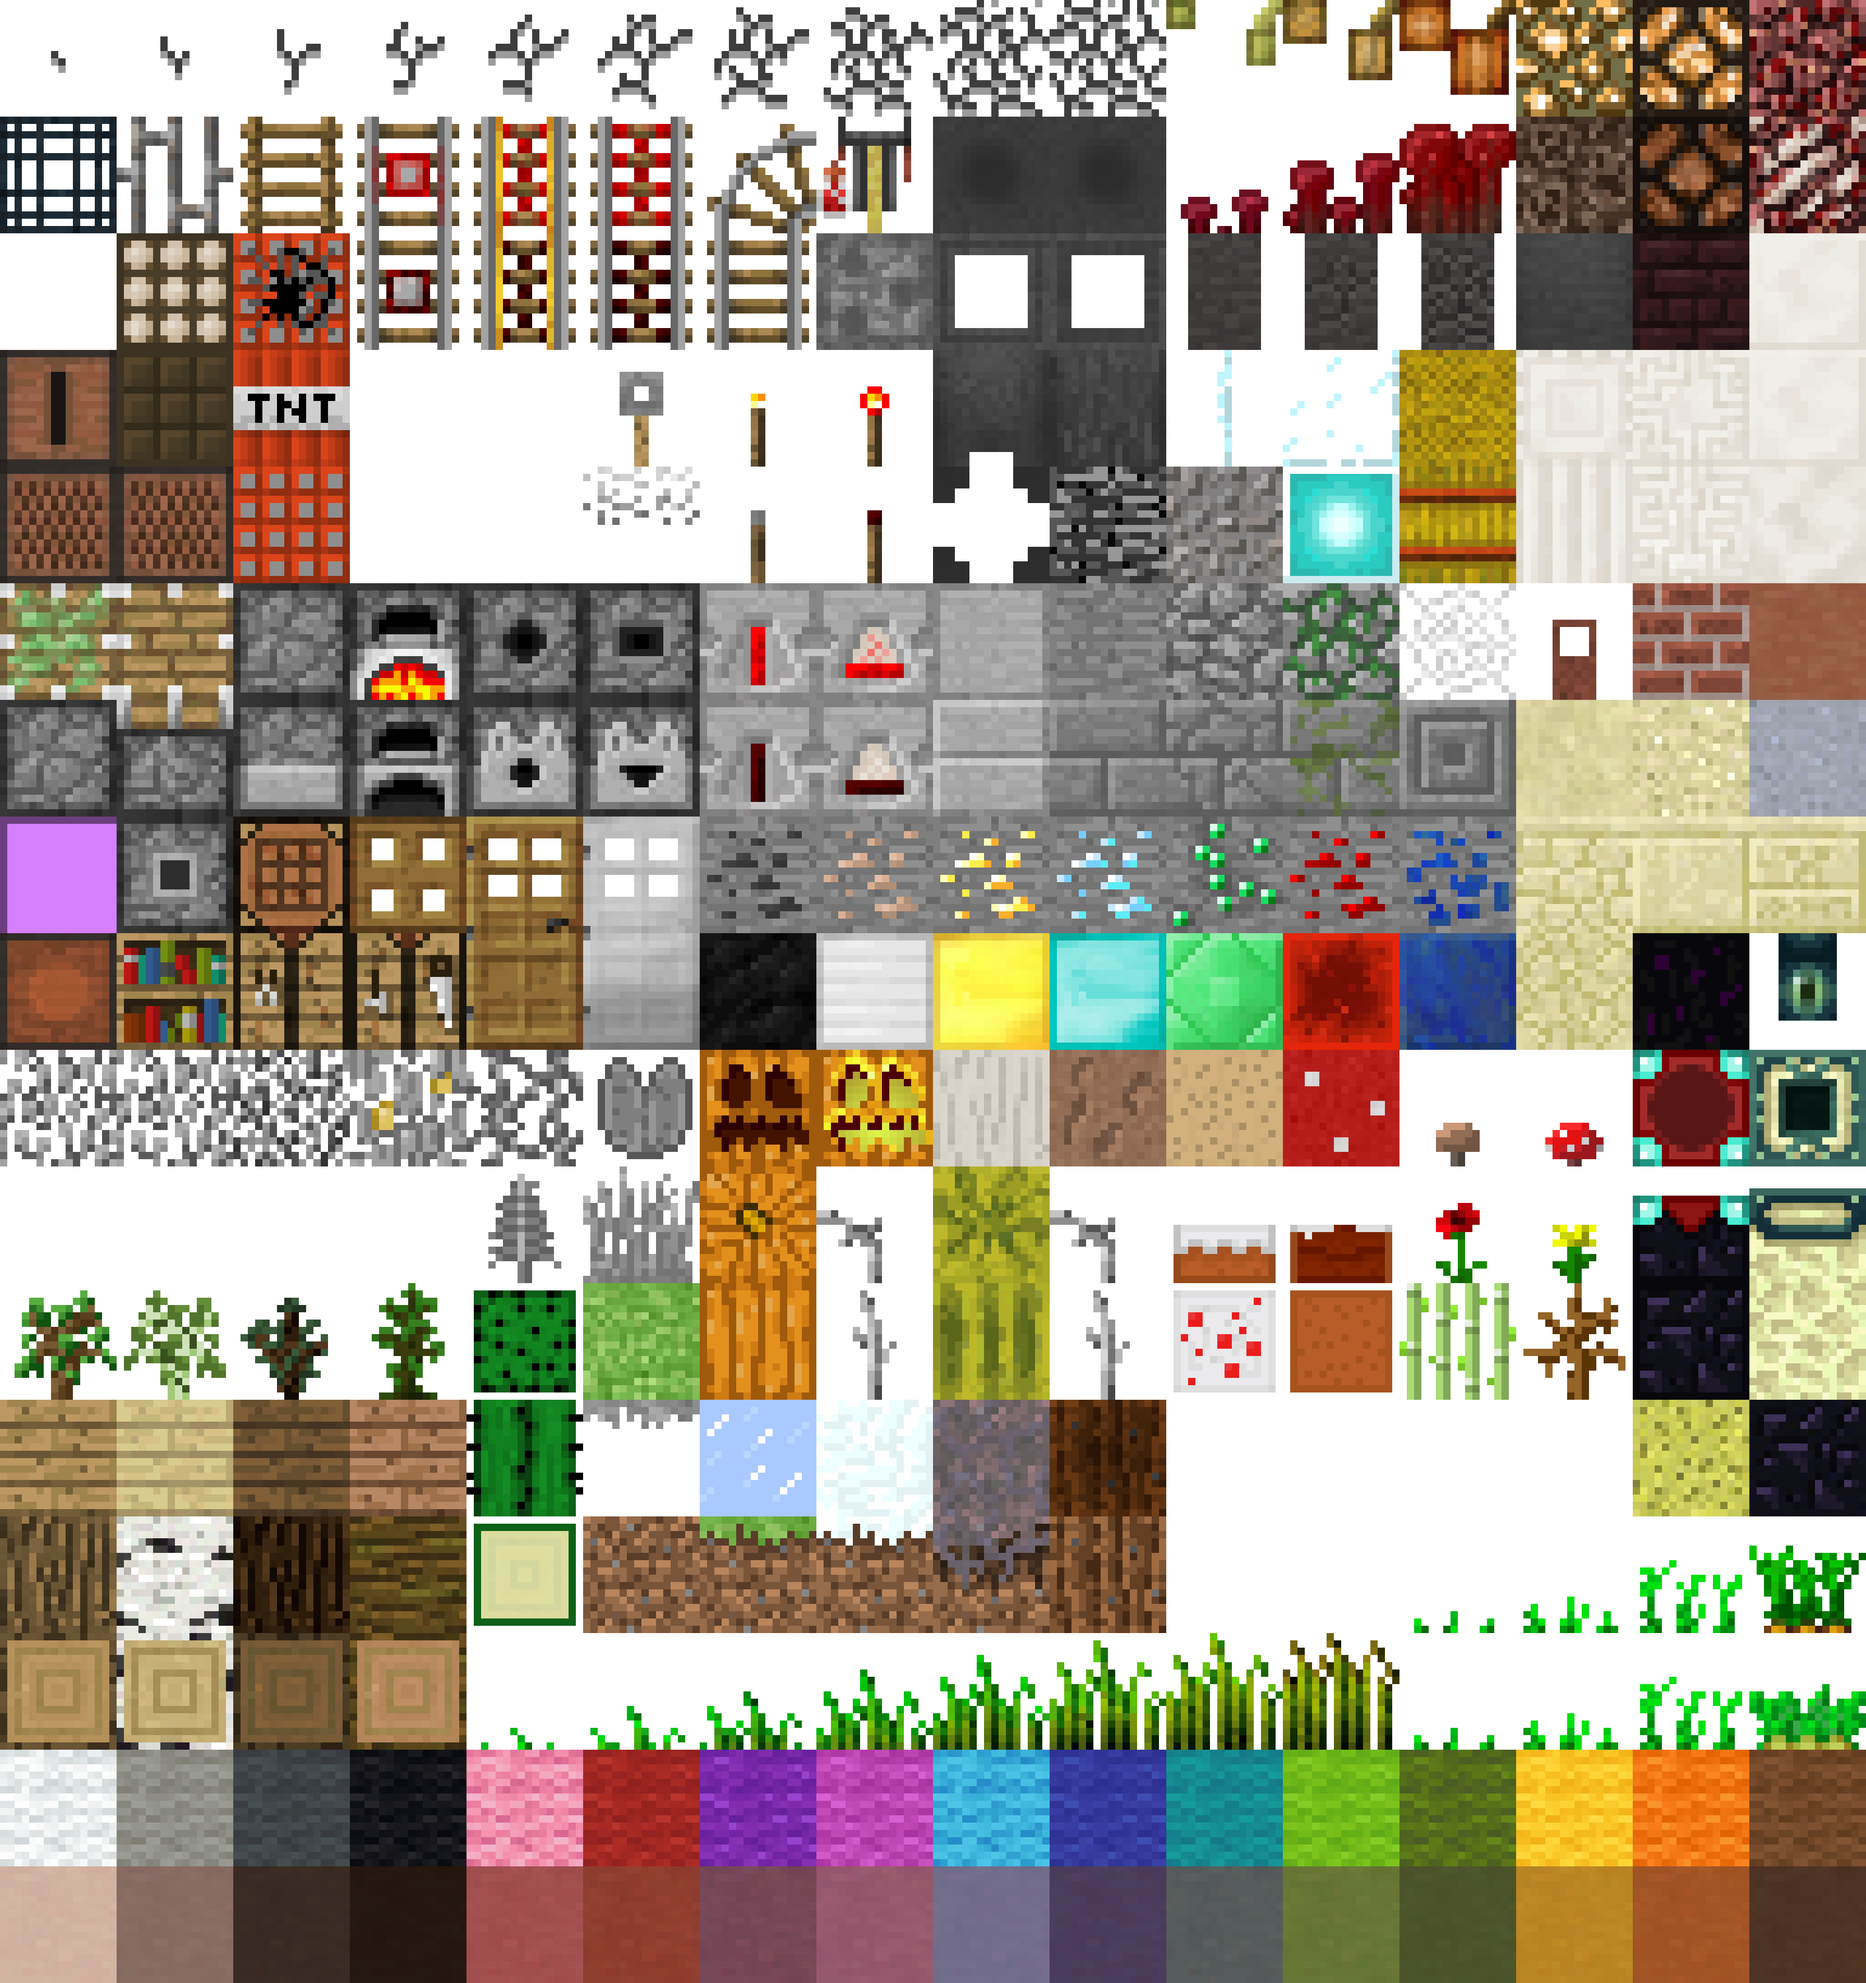
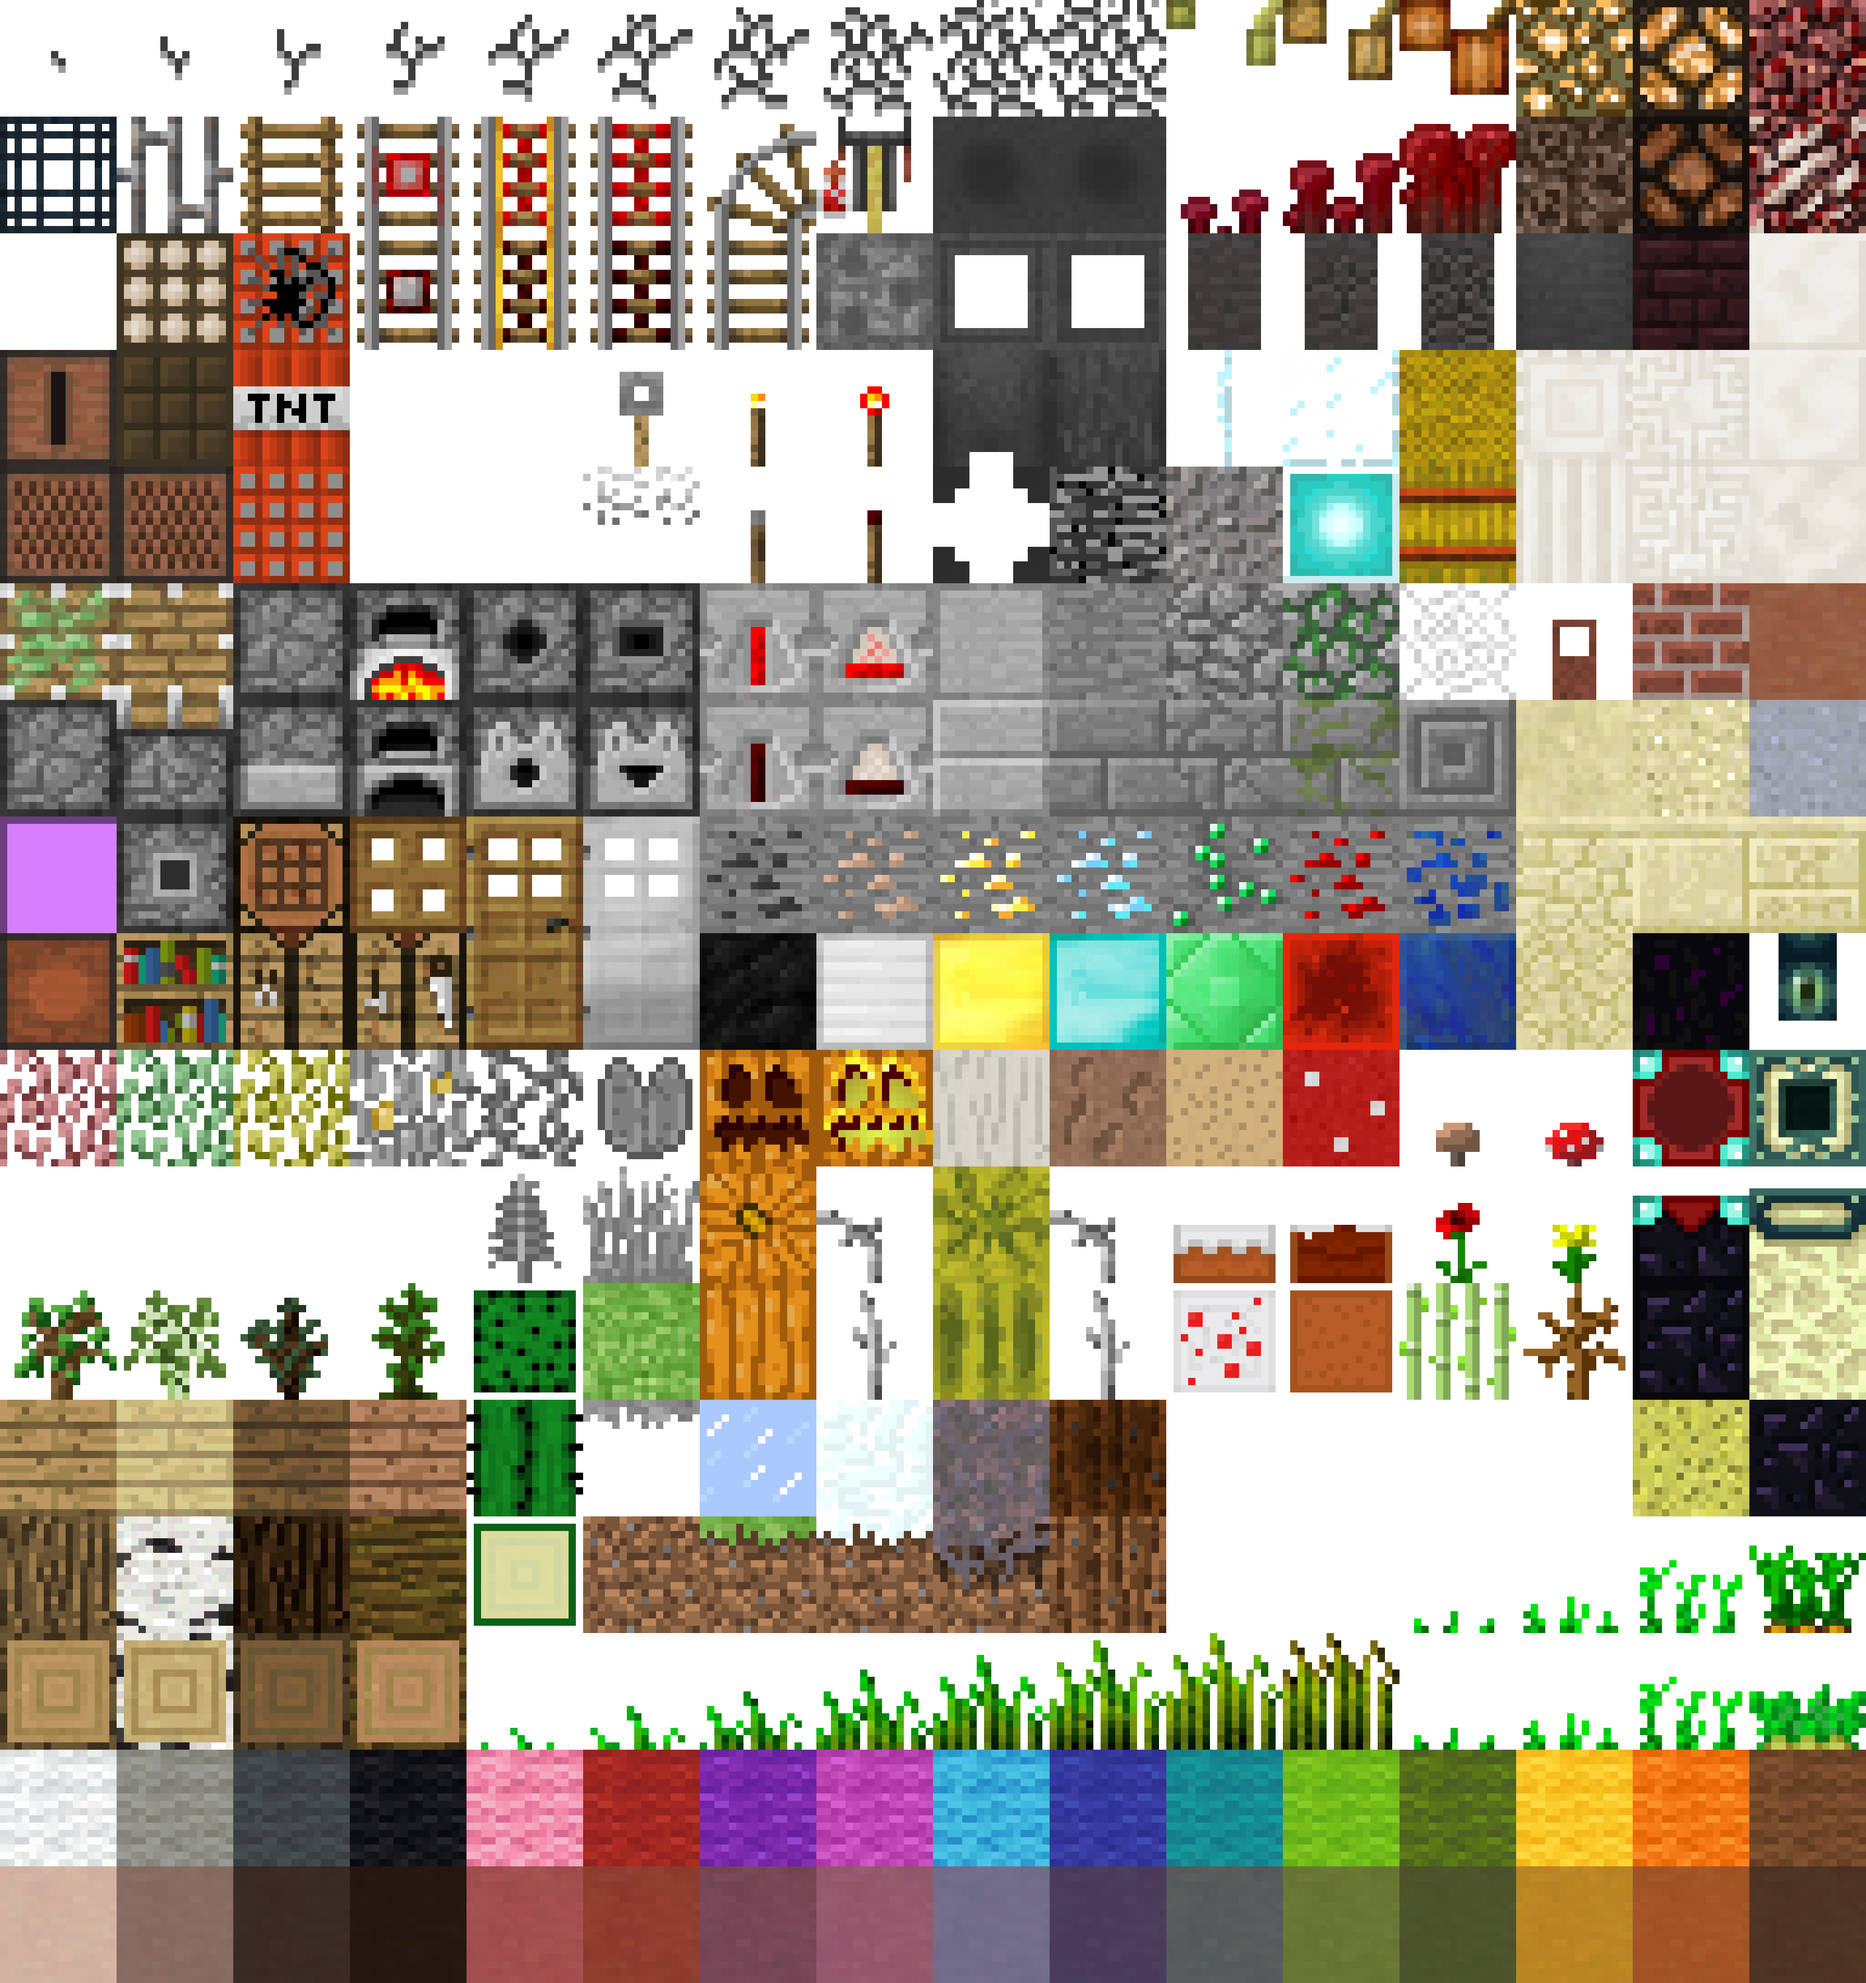
Improve procedural generation and picking when the is picking a cube coplanar to an other chunk, this other chunk is reloaded to change the empty face of the other chunk in visible face This commit also change the way where chunks are generated depending of the player position, chunks who are waitin

Changed region(s): [[0.0, 0.5312, 0.1875, 0.5938]]

diff --git a/VoxEngine/VoxEngine/src/engine/World.cpp b/VoxEngine/VoxEngine/src/engine/World.cpp
@@ -110,6 +110,43 @@ std::pair<int, bool>& World::getChunkInfos(glm::vec3 pos)
 	return (_chunks[(int)(pos.x / CHUNK_X)][(int)(pos.y / CHUNK_Y)][(int)(pos.z / CHUNK_Z)].chunkInfos[(int)pos.x % CHUNK_X][(int)pos.y % CHUNK_Y][(int)pos.z % CHUNK_Z]);
 }
 
+void	World::updateChunk(glm::vec3 pos, bool recursive)
+{
+	if (((int)((pos.y / CHUNK_Y) - _deltaChunk.y) < 0) || ((int)((pos.y / CHUNK_Y) - _deltaChunk.y) >= CHUNK_SIZE_Y))
+		return;
+
+	_chunks[(int)(pos.x / CHUNK_X)][(int)(pos.y / CHUNK_Y)][(int)(pos.z / CHUNK_Z)].Chunk
+		= g_cubeFactory->getChunk(
+			glm::vec3(
+			(int)((pos.x / CHUNK_X) + _deltaChunk.x) * CHUNK_X,
+				(int)((pos.y / CHUNK_Y) + _deltaChunk.y) * CHUNK_Y,
+				(int)((pos.z / CHUNK_Z) + _deltaChunk.z) * CHUNK_Z),
+			_chunks[(int)(pos.x / CHUNK_X)][(int)(pos.y / CHUNK_Y)][(int)(pos.z / CHUNK_Z)].chunkInfos,
+			_chunks[(int)(pos.x / CHUNK_X)][(int)(pos.y / CHUNK_Y)][(int)(pos.z / CHUNK_Z)].Chunk._model._rawModel._vao_id, true);
+
+	if (recursive == false)
+		return;
+
+	//LEFT
+	if ((int)(pos.x / CHUNK_X) != (int)((pos.x - 1) / CHUNK_X))
+		this->updateChunk(glm::vec3(pos.x - 1, pos.y, pos.z), false);
+	//RIGHT
+	if ((int)(pos.x / CHUNK_X) != (int)((pos.x + 1) / CHUNK_X))
+		this->updateChunk(glm::vec3(pos.x + 1, pos.y, pos.z), false);
+	//BACK
+	if ((int)(pos.z / CHUNK_Z) != (int)((pos.z + 1) / CHUNK_Z))
+		this->updateChunk(glm::vec3(pos.x, pos.y, pos.z + 1), false);
+	//FRONT
+	if ((int)(pos.z / CHUNK_Z) != (int)((pos.z - 1) / CHUNK_Z))
+		this->updateChunk(glm::vec3(pos.x, pos.y, pos.z - 1), false);
+	//TOP
+	if ((int)(pos.y / CHUNK_Y) != (int)((pos.y + 1) / CHUNK_Y))
+		this->updateChunk(glm::vec3(pos.x, pos.y + 1, pos.z), false);
+	//BOT
+	if ((int)(pos.y / CHUNK_Y) != (int)((pos.y - 1) / CHUNK_Y))
+		this->updateChunk(glm::vec3(pos.x, pos.y - 1, pos.z), false);
+}
+
 void	World::updateBlock(glm::vec3 pos, int type, bool draw)
 {
 	if (pos == glm::vec3(0, 0, 0))
@@ -137,15 +174,7 @@ void	World::updateBlock(glm::vec3 pos, int type, bool draw)
 
 		pos += _deltaPlayer;
 
-		_chunks[(int)(pos.x / CHUNK_X)][(int)(pos.y / CHUNK_Y)][(int)(pos.z / CHUNK_Z)].Chunk
-			= g_cubeFactory->getChunk(
-				glm::vec3(
-				(int)((pos.x / CHUNK_X) + _deltaChunk.x) * CHUNK_X,
-				(int)((pos.y / CHUNK_Y) + _deltaChunk.y) * CHUNK_Y,
-				(int)((pos.z / CHUNK_Z) + _deltaChunk.z) * CHUNK_Z),
-				_chunks[(int)(pos.x / CHUNK_X)][(int)(pos.y / CHUNK_Y)][(int)(pos.z / CHUNK_Z)].chunkInfos,
-				_chunks[(int)(pos.x / CHUNK_X)][(int)(pos.y / CHUNK_Y)][(int)(pos.z / CHUNK_Z)].Chunk._model._rawModel._vao_id, true);
-		g_cubeFactory->_loader.loadFrags(1);
+		this->updateChunk(pos, true);
 	}
 	else
 	{
@@ -194,15 +223,7 @@ void	World::updateBlock(glm::vec3 pos, int type, bool draw)
 
 		pos += _deltaPlayer;
 
-		_chunks[(int)(pos.x / CHUNK_X)][(int)(pos.y / CHUNK_Y)][(int)(pos.z / CHUNK_Z)].Chunk
-			= g_cubeFactory->getChunk(
-				glm::vec3(
-				(int)((pos.x / CHUNK_X) + _deltaChunk.x) * CHUNK_X,
-				(int)((pos.y / CHUNK_Y) + _deltaChunk.y) * CHUNK_Y,
-				(int)((pos.z / CHUNK_Z) + _deltaChunk.z) * CHUNK_Z),
-				_chunks[(int)(pos.x / CHUNK_X)][(int)(pos.y / CHUNK_Y)][(int)(pos.z / CHUNK_Z)].chunkInfos,
-				_chunks[(int)(pos.x / CHUNK_X)][(int)(pos.y / CHUNK_Y)][(int)(pos.z / CHUNK_Z)].Chunk._model._rawModel._vao_id, true);
-		g_cubeFactory->_loader.loadFrags(1);
+		this->updateChunk(pos, true);
 	}
 }
 
@@ -462,7 +483,7 @@ void	World::update(float elapsed, Camera& cam, const int fps, const bool debug)
 	}
 
 	if (threading == false)
-		g_cubeFactory->_loader.loadFrags(1);
+		g_cubeFactory->_loader.loadFrags(4);
 
 	if (debug == true)
 	{

diff --git a/VoxEngine/VoxEngine/src/Game.cpp b/VoxEngine/VoxEngine/src/Game.cpp
@@ -64,7 +64,11 @@ void	Game::moveKeyboardCamera(float elapsed)
 	{
 		_world->getPlayer().jump(0);
 	}
+	this->movePlayer(move, elapsed);
+}
 
+void	Game::KeyboardAction(void)
+{
 	if (_inputManager.getClic(1) == 1)
 	{
 		_world->updateBlock(_world->getWirelessCubePos(_camera), cubeFactory::DIRT, true);
@@ -73,9 +77,6 @@ void	Game::moveKeyboardCamera(float elapsed)
 	{
 		_world->updateBlock(_world->getWirelessCubePos(_camera), 0, false);
 	}
-
-	this->movePlayer(move, elapsed);
-	
 }
 
 void	Game::moveMouseCamera(float elapsed)
@@ -118,6 +119,7 @@ void Game::loop(void)
 
 		_display->clear();
 		_world->update(_elapsed, _camera, _fps, _debug);
+		this->KeyboardAction();
 		_renderEngine->renderWorld(_camera, _world, _debug);
 		_display->update();
 

diff --git a/VoxEngine/VoxEngine/src/models/cubeFactory.cpp b/VoxEngine/VoxEngine/src/models/cubeFactory.cpp
@@ -69,6 +69,39 @@ void	cubeFactory::setFace(std::vector<int>& ind, std::vector<float>& uv, std::ve
 			*/
 			break;
 		}
+		case FOLIAGE_R:
+		{
+			pos_side.x = 0;
+			pos_side.y = 8;
+			pos_top = pos_side;
+			pos_bot = pos_top;
+			break;
+		}
+		case FOLIAGE_G:
+		{
+			pos_side.x = 1;
+			pos_side.y = 8;
+			pos_top = pos_side;
+			pos_bot = pos_top;
+			break;
+		}
+		case FOLIAGE_Y:
+		{
+			pos_side.x = 2;
+			pos_side.y = 8;
+			pos_top = pos_side;
+			pos_bot = pos_top;
+			break;
+		}
+		case WOOD:
+		{
+			pos_side.x = 0;
+			pos_side.y = 12;
+			pos_top.x = 0;
+			pos_top.y = 13;
+			pos_bot = pos_top;
+			break;
+		}
 		case SUN:
 		{
 			pos_side.x = 13;

diff --git a/VoxEngine/VoxEngine/src/engine/VAOLoader.cpp b/VoxEngine/VoxEngine/src/engine/VAOLoader.cpp
@@ -76,10 +76,11 @@ void	VAOLoader::loadFrags(std::size_t count)
 	else
 		max = _tmpFrags.size();
 		
-	for (std::size_t i(0); i < _tmpFrags.size(); ++i)
-		this->updateVAO(_tmpFrags[i].pos, _tmpFrags[i].normals, _tmpFrags[i].texture_coord, _tmpFrags[i].indices, _tmpFrags[i].vao);
-
-	_tmpFrags.erase(_tmpFrags.begin(), _tmpFrags.begin() + max);
+	for (std::size_t i(0); i < max; ++i)
+	{
+		this->updateVAO(_tmpFrags.back().pos, _tmpFrags.back().normals, _tmpFrags.back().texture_coord, _tmpFrags.back().indices, _tmpFrags.back().vao);
+		_tmpFrags.pop_back();
+	}
 }
 
 rawModel	VAOLoader::updateVAO(const std::vector<float> &pos,

diff --git a/VoxEngine/VoxEngine/inc/engine/World.h b/VoxEngine/VoxEngine/inc/engine/World.h
@@ -49,6 +49,8 @@ public:
 	std::vector<Entity>		&getAxis(void);
 	std::vector<Entity>		&getText(void);
 
+	void	updateChunk(glm::vec3 pos, bool recursive);
+
 	glm::vec3	getScreenPos(const glm::vec3 pos);
 
 	glm::vec2	_win;

diff --git a/VoxEngine/VoxEngine/src/Display.cpp b/VoxEngine/VoxEngine/src/Display.cpp
@@ -43,7 +43,7 @@ void	Display::clear(void)
 {
 	glEnable(GL_DEPTH_TEST);
 	glClear(GL_COLOR_BUFFER_BIT | GL_DEPTH_BUFFER_BIT);
-	glClearColor(0, 0, 0, 1);
+	glClearColor(0.59, 0.83, 0.94, 1);
 }
 
 void	Display::update(void)

diff --git a/VoxEngine/VoxEngine/inc/Game.h b/VoxEngine/VoxEngine/inc/Game.h
@@ -34,6 +34,7 @@ public:
 	void	loop(void);
 	void	moveMouseCamera(float elapsed);
 	void	moveKeyboardCamera(float elapsed);
+	void	KeyboardAction(void);
 	void	movePlayer(const glm::vec3 delta, float elapsed);
 };
 

diff --git a/VoxEngine/VoxEngine/inc/models/cubeFactory.h b/VoxEngine/VoxEngine/inc/models/cubeFactory.h
@@ -17,6 +17,10 @@ public:
 		STONE,
 		COAL,
 		SUN,
+		FOLIAGE_R,
+		FOLIAGE_Y,
+		FOLIAGE_G,
+		WOOD,
 		PLAYER,
 		LINE
 	};
